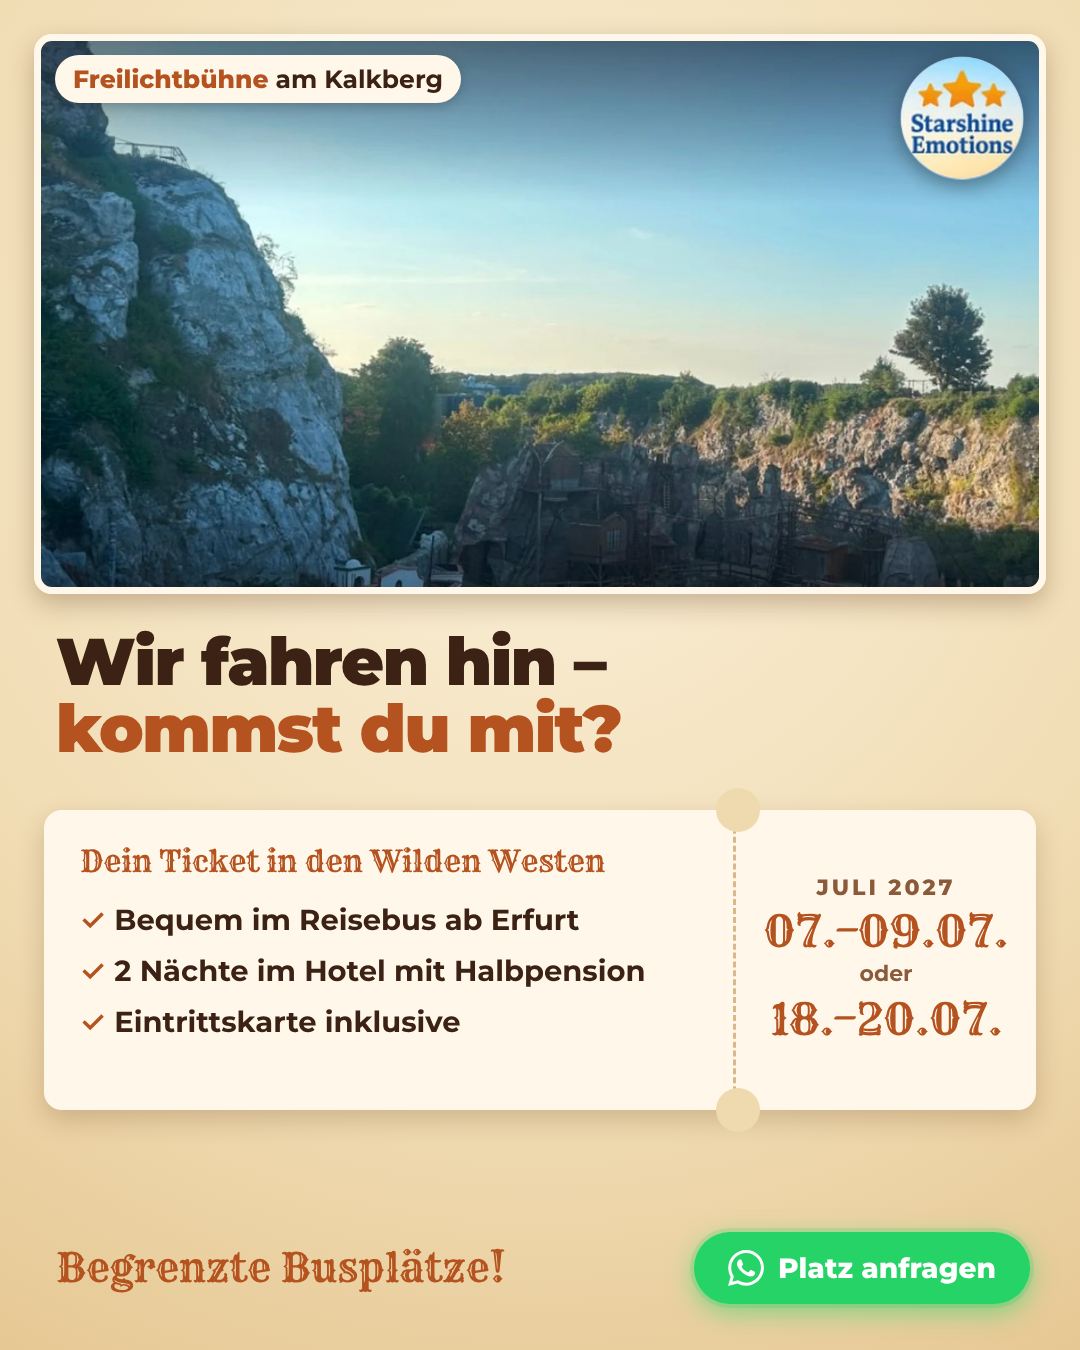
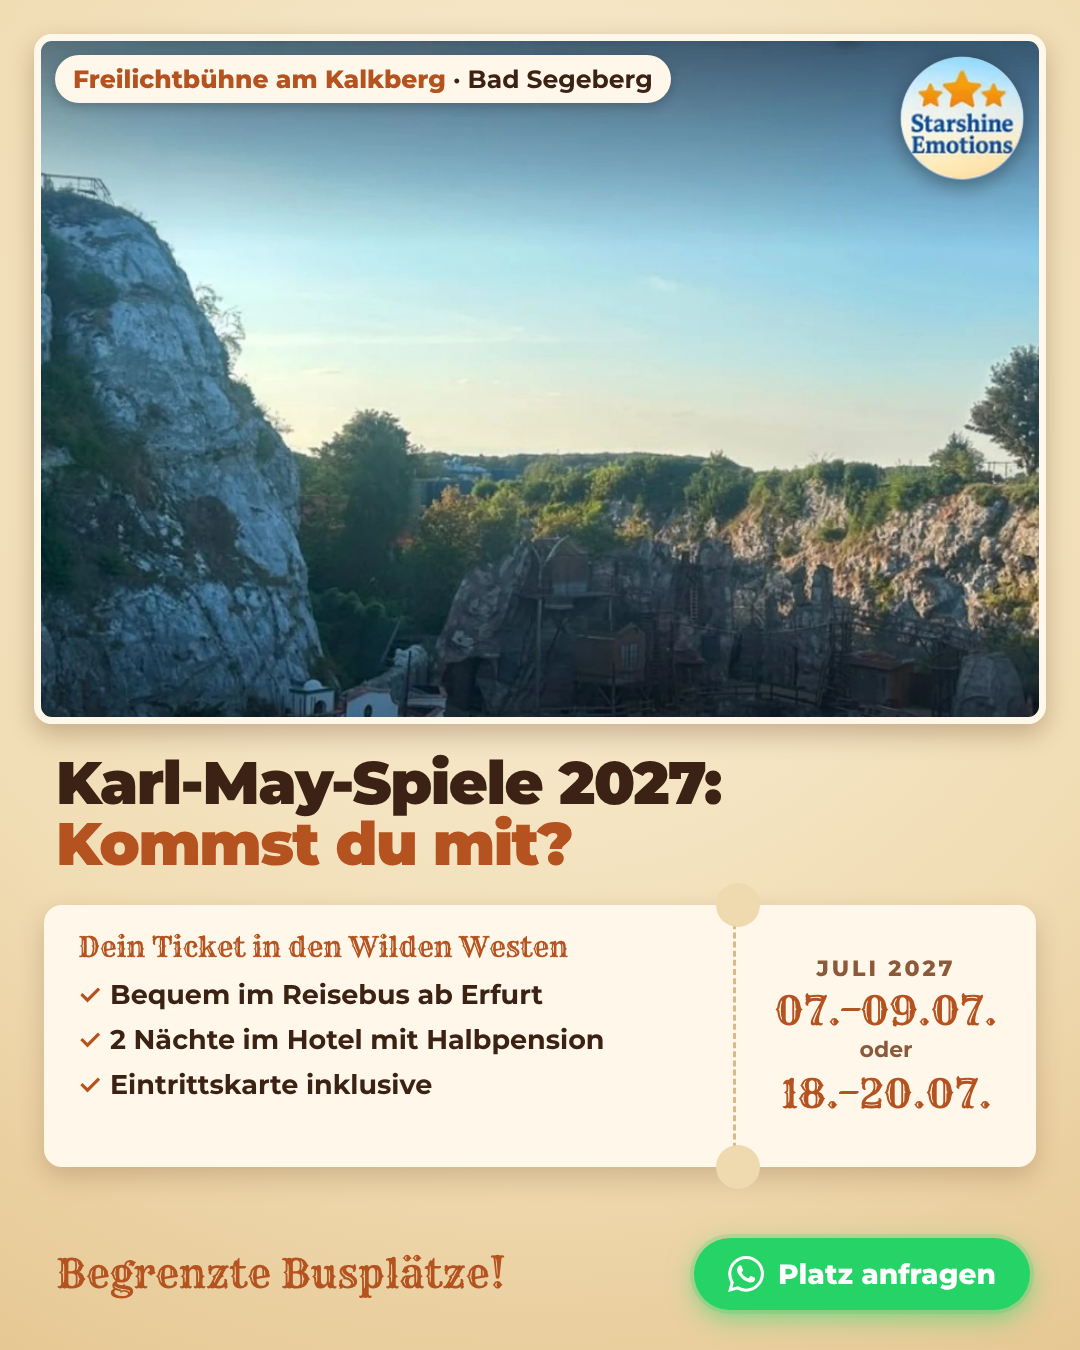
Post 04: larger photo, clear Karl-May-Spiele headline, compact ticket
Claude-Session: https://claude.ai/code/session_01MYsT5PUrxmX4pbkuNXz2ag

diff --git a/creatives/organic/04-mitfahren.html b/creatives/organic/04-mitfahren.html
@@ -1,30 +1,30 @@
 <!doctype html><html><head><meta charset="utf-8"><link href="https://fonts.googleapis.com/css2?family=Rye&family=Montserrat:wght@500;600;700;800;900&display=swap" rel="stylesheet"><link rel="stylesheet" href="_base.css"><style>
 .ad{background:radial-gradient(circle at 50% 30%,#FBF0D9 0%,#F1DDB5 60%,#E6C894 100%)}
-.photo{position:absolute;left:34px;right:34px;top:34px;height:560px;border-radius:18px;overflow:hidden;border:7px solid #FFF8EA;box-shadow:0 10px 26px rgba(90,50,20,.3)}
-.photo img{width:100%;height:100%;object-fit:cover;object-position:50% 70%;display:block}
+.photo{position:absolute;left:34px;right:34px;top:34px;height:690px;border-radius:18px;overflow:hidden;border:7px solid #FFF8EA;box-shadow:0 10px 26px rgba(90,50,20,.3)}
+.photo img{width:100%;height:100%;object-fit:cover;object-position:50% 75%;display:block}
 .photo span{position:absolute;left:14px;top:14px;background:#FFF8EA;color:#3B2214;font-weight:700;font-size:25px;padding:9px 18px;border-radius:24px;box-shadow:0 4px 12px rgba(0,0,0,.2)}
 .photo span b{color:#B4531F;font-weight:800}
-.h{position:absolute;left:56px;right:56px;top:628px;color:#3B2214;font-weight:900;font-size:66px;line-height:1.02;letter-spacing:-1.5px}
+.h{position:absolute;left:56px;right:56px;top:752px;color:#3B2214;font-weight:900;font-size:60px;line-height:1.02;letter-spacing:-1.5px}
 .h em{font-style:normal;color:#B4531F}
-.ticket{position:absolute;left:44px;right:44px;top:810px;height:300px;background:#FFF8EA;border-radius:18px;box-shadow:0 10px 26px rgba(90,50,20,.22);display:flex}
+.ticket{position:absolute;left:44px;right:44px;top:905px;height:262px;background:#FFF8EA;border-radius:18px;box-shadow:0 10px 26px rgba(90,50,20,.22);display:flex}
 .ticket::before,.ticket::after{content:"";position:absolute;left:672px;width:44px;height:44px;border-radius:50%;background:#EFD9AE}
 .ticket::before{top:-22px}.ticket::after{bottom:-22px}
-.tl{flex:1;padding:32px 36px;border-right:3px dashed #D9B98A}
-.tl .t{font-family:Rye,serif;font-size:30px;color:#B4531F}
-.tl ul{list-style:none;margin-top:14px}
-.tl li{font-weight:700;font-size:29px;color:#3B2214;padding:8px 0}
+.tl{flex:1;padding:24px 34px;border-right:3px dashed #D9B98A}
+.tl .t{font-family:Rye,serif;font-size:28px;color:#B4531F}
+.tl ul{list-style:none;margin-top:8px}
+.tl li{font-weight:700;font-size:27px;color:#3B2214;padding:6px 0}
 .tl li::before{content:"✓  ";color:#B4531F;font-weight:900}
 .tr{width:300px;display:flex;flex-direction:column;align-items:center;justify-content:center;text-align:center;color:#3B2214}
 .tr .m{font-weight:800;font-size:22px;letter-spacing:3px;color:#8A5A3A}
-.tr .d{font-family:Rye,serif;font-size:44px;color:#B4531F;line-height:1.15;margin-top:6px}
+.tr .d{font-family:Rye,serif;font-size:40px;color:#B4531F;line-height:1.15;margin-top:6px}
 .tr .o{font-weight:700;font-size:22px;color:#8A5A3A;margin:2px 0}
-.foot{position:absolute;left:56px;right:50px;bottom:46px;display:flex;align-items:center;justify-content:space-between}
+.foot{position:absolute;left:56px;right:50px;bottom:40px;display:flex;align-items:center;justify-content:space-between}
 .info .lim{font-family:Rye,serif;font-size:40px;color:#B4531F}
 .cta{display:flex;align-items:center;gap:14px;background:#25D366;color:#fff;font-weight:800;font-size:28px;padding:18px 34px;border-radius:40px;box-shadow:0 0 0 4px rgba(37,211,102,.18),0 8px 26px rgba(37,211,102,.55)}
 </style></head><body><div class="ad">
-<div class="photo"><img src="km-buehne.jpg"><span><b>Freilichtbühne</b> am Kalkberg</span></div>
+<div class="photo"><img src="km-buehne.jpg"><span><b>Freilichtbühne am Kalkberg</b> · Bad Segeberg</span></div>
 <img class="logo" src="logo-starshine.png" style="top:56px;right:56px">
-<div class="h">Wir fahren hin –<br><em>kommst du mit?</em></div>
+<div class="h">Karl-May-Spiele 2027:<br><em>Kommst du mit?</em></div>
 <div class="ticket">
  <div class="tl"><div class="t">Dein Ticket in den Wilden Westen</div>
   <ul><li>Bequem im Reisebus ab Erfurt</li><li>2 Nächte im Hotel mit Halbpension</li><li>Eintrittskarte inklusive</li></ul></div>
